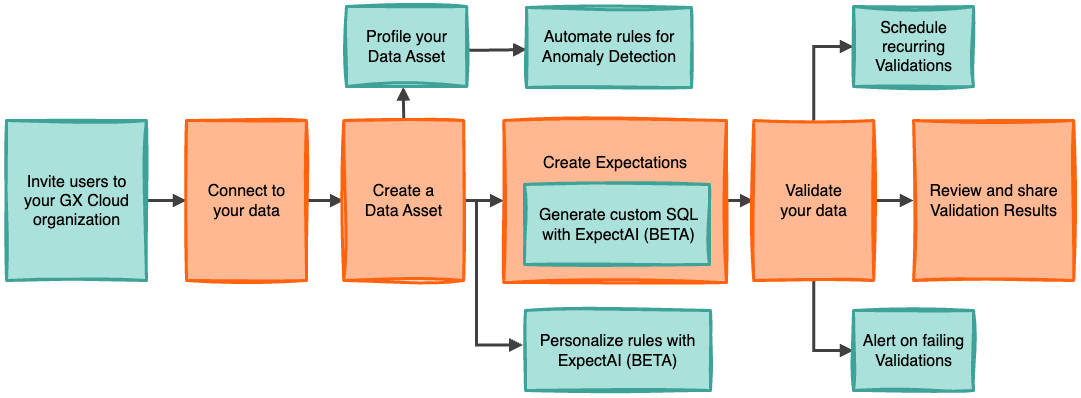
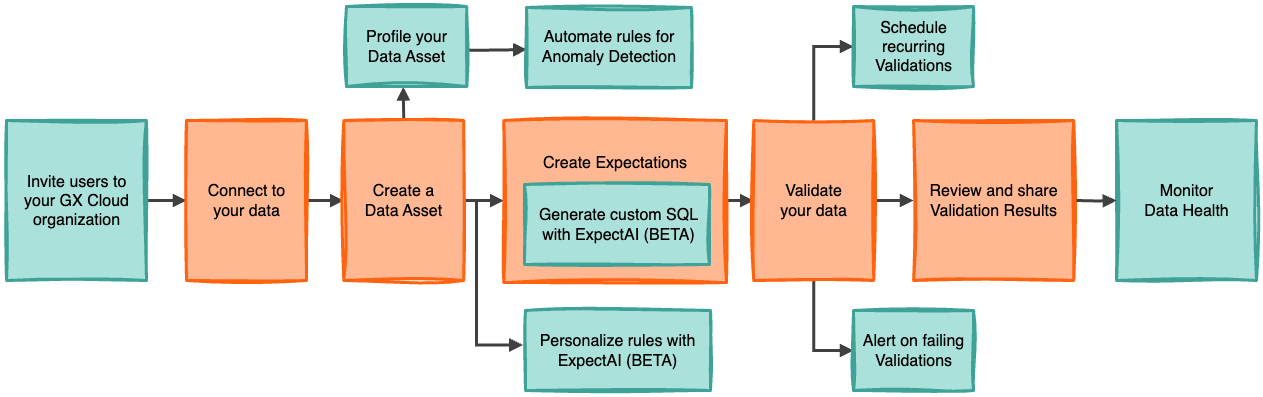
[DOCS] Data Health (#11294)

Pull request: [DOCS] Data Health
Resolves https://greatexpectations.atlassian.net/browse/DOC-1143 according to the plan linked in that issue 

- [X] Description of PR changes above includes a link to [an existing GitHub issue](https://github.com/great-expectations/great_expectations/issues)
- [X] PR title is prefixed with one of: [BUGFIX], [FEATURE], [DOCS], [MAINTENANCE], [CONTRIB], [MINORBUMP]
- [ ] Code is linted - run `invoke lint` (uses `ruff format` + `ruff check`)
- [X] Appropriate tests and docs have been updated

For more information about contributing, visit our [community resources](https://docs.greatexpectations.io/docs/core/introduction/community_resources#contribute-code-or-documentation).

After you submit your PR, keep the page open and **monitor the statuses of the various checks made by our continuous integration process at the bottom of the page. Please fix any issues that come up** and [reach out on Slack](https://greatexpectations.io/slack) if you need help. Thanks for contributing!

diff --git a/docs/docusaurus/sidebars.js b/docs/docusaurus/sidebars.js
@@ -155,7 +155,7 @@ module.exports = {
       items: [
         'cloud/overview/gx_cloud_overview',
         'cloud/overview/accelerating_test_coverage',
-        'cloud/overview/coverage_health'
+        'cloud/overview/data_health'
       ]
     },
     {

diff --git a/docs/docusaurus/docs/cloud/overview/data_health.md b/docs/docusaurus/docs/cloud/overview/data_health.md
@@ -1,0 +1,40 @@
+---
+title: 'Data Health'
+description: Understand and improve data quality test coverage and success across your business.
+---
+
+To understand the health of your data, you need to know whether tests are passing or failing as well as what you're testing and how often.
+
+## Metrics
+To give you these insights into the health of your data, GX Cloud provides the following metrics on the **Data Health** page:
+
+- **Data Health:** A 30-day average of the following daily percentage: the number of successful distinct Expectations in a day divided by the number of distinct Expectations validated in that day. Here are some scenarios to help you understand the concepts of distinct Expectation validations and successful distinct Expectations as used in calculating data health metrics.
+   - If an Expectation is validated multiple times for a given Data Asset in a single day, it will be counted as one distinct Expectation validation.
+   - If an Expectation fails near the start of the day and succeeds near the end of the day, it will be counted as a successful distinct Expectation.
+   - If an Expectation succeeds near the start of the day and fails near the end of the day, it will not count as a successful distinct Expectation.
+
+- **Daily distinct Expectations:** A 30-day average of the number of distinct Expectations validated each day. 
+
+- **Daily Data Health:** The number of successful distinct Expectations in a day divided by the number of distinct Expectations validated in that day.
+
+- **Active Coverage:** The percentage of Data Assets that have been validated in the last 30 days.
+
+- **Total Data Assets:** The current number of Data Assets in your GX Cloud Organization.
+
+Days as used in these metrics are segmented by midnight UTC.
+
+Only current Data Assets are considered in these metrics. Deleted Data Assets are excluded from the calculations even if they've had Validations within the last 30 days.
+
+## Data quality issue filters
+
+For a more nuanced understanding of what you’re testing, you can filter the **Data Health** dashboard to focus on different data quality issues such as **Schema** or **Volume**. When you apply a filter, the metrics shown are impacted as follows:
+
+- For **Data Health**, **Daily distinct Expectations**, and **Daily Data Health**, only Expectations belonging to the selected data quality issue will be considered when counting both successful distinct Expectations and distinct Expectation validations.
+
+- The **Active Coverage** percentage will be scoped to Data Assets that have been validated with at least one Expectation for the selected data quality issue in the last 30 days.
+
+- The number of **Total Data Assets** will not change. This always shows the current number of Data Assets in your GX Cloud Organization regardless of what if any Expectations they have.
+
+## Next steps for improving data health
+
+If **Active Coverage** is low, drill into it for a list of **Inactive Data Assets**. Then [schedule recurring Validations](/docs/cloud/schedules/manage_schedules.md) and/or [add Expectations](/docs/cloud/expectations/manage_expectations.md#add-an-expectation) for those Data Assets to improve your coverage both overall and for specific data quality issues.

diff --git a/docs/docusaurus/docs/cloud/gx_cloud_lp.md b/docs/docusaurus/docs/cloud/gx_cloud_lp.md
@@ -23,7 +23,7 @@ import OverviewCard from '@site/src/components/OverviewCard';
 <LinkCardGrid>
   <LinkCard topIcon label="GX Cloud overview" description="Learn more about GX Cloud features and functionality." to="/cloud/overview/gx_cloud_overview" icon="/img/small_gx_logo.png" />
   <LinkCard topIcon label="Accelerating test coverage" description="Explore options for more quickly achieving test coverage." to="/cloud/overview/accelerating_test_coverage" icon="/img/small_gx_logo.png" />
-  <LinkCard topIcon label="Coverage health" description="Understand what you're testing and how often for a more holistic perspective on data health." to="/cloud/overview/coverage_health" icon="/img/small_gx_logo.png" />
+  <LinkCard topIcon label="Data Health" description="Understand and improve data quality test coverage and success across your business." to="/cloud/overview/data_health" icon="/img/small_gx_logo.png" />
 </LinkCardGrid>
 
 ### Get started

diff --git a/docs/docusaurus/docs/cloud/overview/gx_cloud_overview.md b/docs/docusaurus/docs/cloud/overview/gx_cloud_overview.md
@@ -56,6 +56,8 @@ There are a variety of GX Cloud features that support additional enhancements to
 
 * **Alerting.** GX Cloud provides the ability to send alerts when validations fail, enabling your organization to remain proactively aware of the health of your Data Assets. See [Manage alerts](/cloud/alerts/manage_alerts.md) for more detail.
 
+* **Monitor Data Health.** GX Cloud provides metric summaries and trends to help you understand and improve test coverage and success across your business. See [Data Health](/cloud/overview/data_health.md) for more detail.
+
 
 
 ## GX Cloud architecture